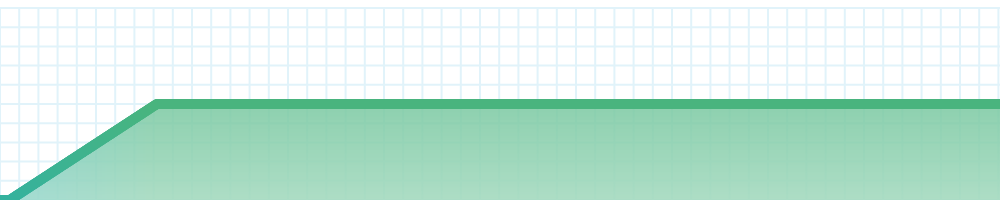
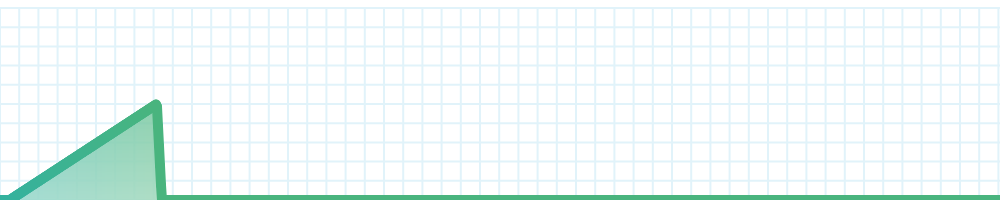
Add end point

diff --git a/Android/Pulsar/src/main/java/com/swmansion/pulsar/presets/SystemPrimitivePresets.kt b/Android/Pulsar/src/main/java/com/swmansion/pulsar/presets/SystemPrimitivePresets.kt
@@ -137,7 +137,7 @@ class SystemPrimitiveQuickRisePreset(haptics: Pulsar, private val systemPresets:
 //CODEGEN_BEGIN_{system_preset}
         PatternData(
             rawContinuousPattern = listOf(
-                listOf(listOf(0.0f, 0.0f), listOf(150.0f, 0.5f)),
+                listOf(listOf(0.0f, 0.0f), listOf(150.0f, 0.5f), listOf(155.0f, 0.0f)),
                 listOf(listOf(0.0f, 0.25f), listOf(150.0f, 0.33f)),
             ),
             rawDiscretePattern = listOf(
@@ -159,7 +159,7 @@ class SystemPrimitiveSlowRisePreset(haptics: Pulsar, private val systemPresets: 
 //CODEGEN_BEGIN_{system_preset}
         PatternData(
             rawContinuousPattern = listOf(
-                listOf(listOf(0.0f, 0.0f), listOf(500.0f, 0.5f)),
+                listOf(listOf(0.0f, 0.0f), listOf(500.0f, 0.5f), listOf(505.0f, 0.0f)),
                 listOf(listOf(0.0f, 0.25f), listOf(500.0f, 0.33f)),
             ),
             rawDiscretePattern = listOf(

diff --git a/react-native/react-native-pulsar/android/src/main/java/com/swmansion/pulsar/presets/SystemPrimitivePresets.kt b/react-native/react-native-pulsar/android/src/main/java/com/swmansion/pulsar/presets/SystemPrimitivePresets.kt
@@ -137,7 +137,7 @@ class SystemPrimitiveQuickRisePreset(haptics: Pulsar, private val systemPresets:
 //CODEGEN_BEGIN_{system_preset}
         PatternData(
             rawContinuousPattern = listOf(
-                listOf(listOf(0.0f, 0.0f), listOf(150.0f, 0.5f)),
+                listOf(listOf(0.0f, 0.0f), listOf(150.0f, 0.5f), listOf(155.0f, 0.0f)),
                 listOf(listOf(0.0f, 0.25f), listOf(150.0f, 0.33f)),
             ),
             rawDiscretePattern = listOf(
@@ -159,7 +159,7 @@ class SystemPrimitiveSlowRisePreset(haptics: Pulsar, private val systemPresets: 
 //CODEGEN_BEGIN_{system_preset}
         PatternData(
             rawContinuousPattern = listOf(
-                listOf(listOf(0.0f, 0.0f), listOf(500.0f, 0.5f)),
+                listOf(listOf(0.0f, 0.0f), listOf(500.0f, 0.5f), listOf(505.0f, 0.0f)),
                 listOf(listOf(0.0f, 0.25f), listOf(500.0f, 0.33f)),
             ),
             rawDiscretePattern = listOf(

diff --git a/PulsarApp/constants/SystemPresetsConfig.ts b/PulsarApp/constants/SystemPresetsConfig.ts
@@ -297,7 +297,7 @@ export const AndroidPresetsConfig: Array<PresetProps> = [
     name: 'SystemPrimitiveQuickRisePreset',
     description: 'VibrationEffect.Composition.PRIMITIVE_QUICK_RISE',
     tags: ["System","Android","Primitive","Substantial","Flexible","Impulses","Impulse"],
-    duration: 150,
+    duration: 155,
     image: AndroidSystemPrimitiveQuickRisePresetImage,
     play: Presets.System.Android.PrimitiveQuickRisePreset,
   },
@@ -305,7 +305,7 @@ export const AndroidPresetsConfig: Array<PresetProps> = [
     name: 'SystemPrimitiveSlowRisePreset',
     description: 'VibrationEffect.Composition.PRIMITIVE_SLOW_RISE',
     tags: ["System","Android","Primitive","Gentle","Flexible","Impulses","Short"],
-    duration: 500,
+    duration: 505,
     image: AndroidSystemPrimitiveSlowRisePresetImage,
     play: Presets.System.Android.PrimitiveSlowRisePreset,
   },
